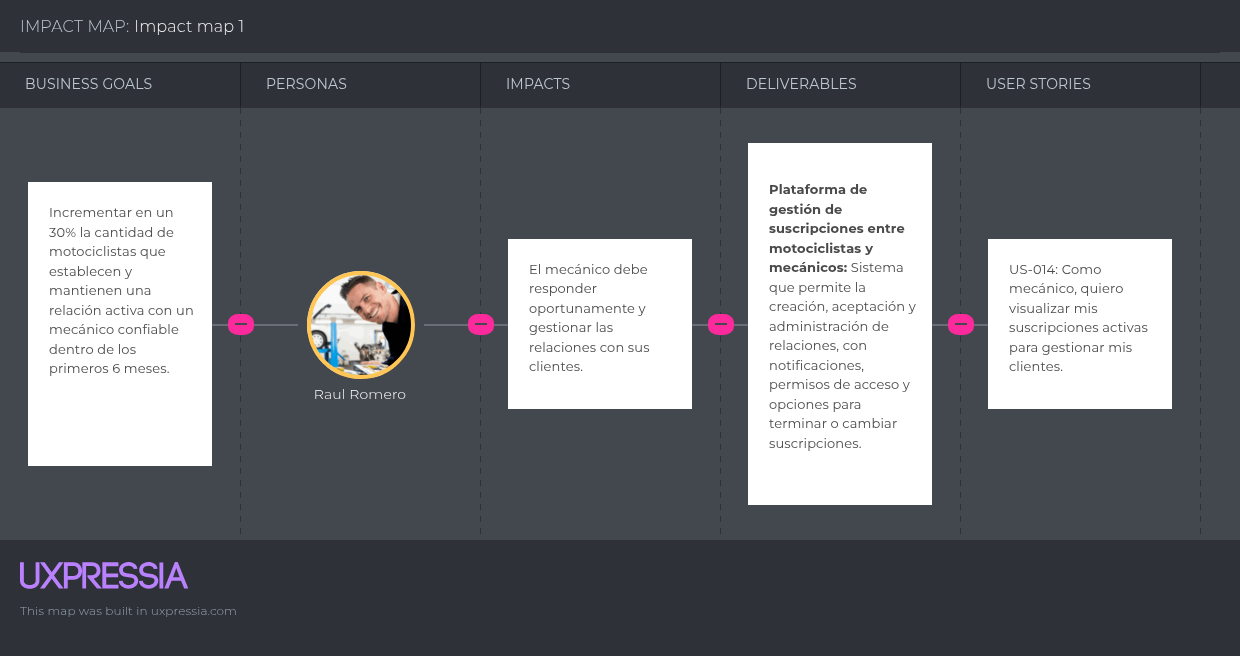
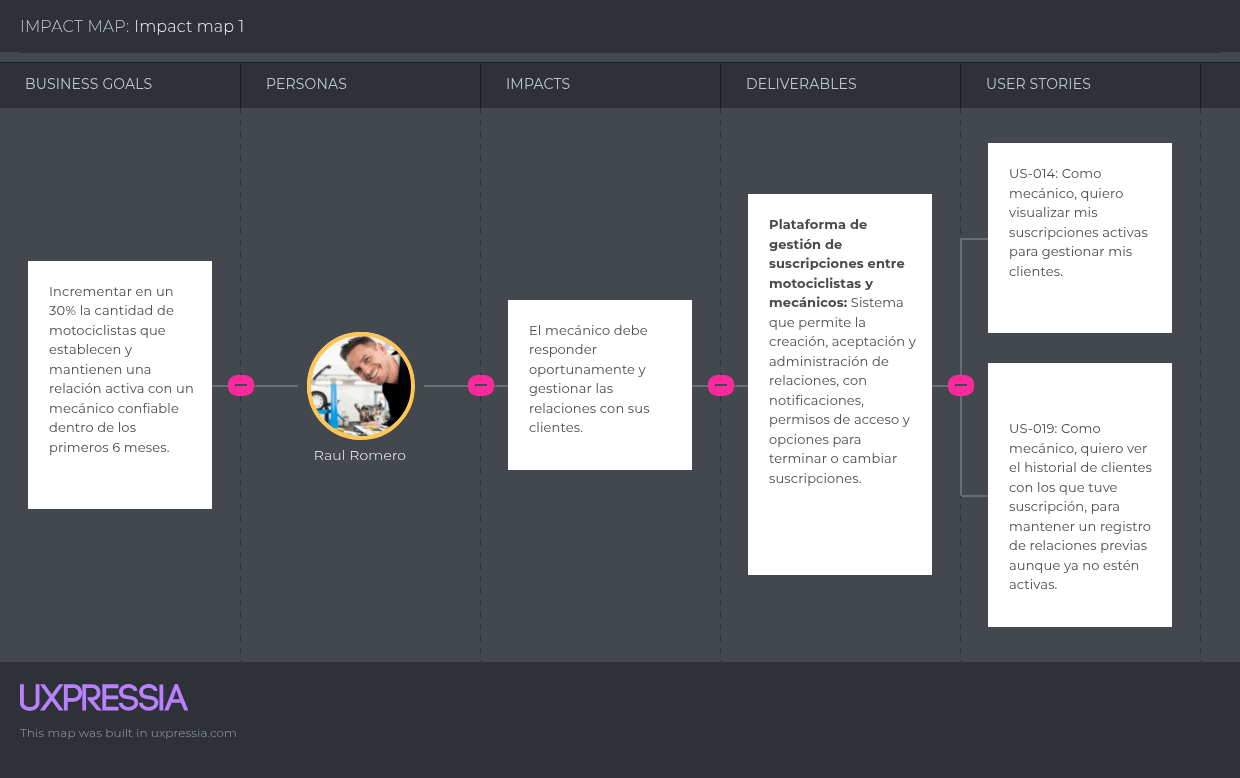
fix(Impact-Mapping): fix impact_mapping_1_2_3

diff --git a/README.md b/README.md
@@ -59,63 +59,75 @@ El enlace a github del reporte del proyecto es el siguiente: [https://github.com
 
 ## Contenido
 
-- [Student Outcome](#student-outcome)
-- [Capítulo I: Introducción](#capítulo-i-introducción)
+- [Universidad Peruana de Ciencias Aplicadas](#universidad-peruana-de-ciencias-aplicadas)
+    - [**CURSO:** Desarrollo de Soluciones IoT](#curso-desarrollo-de-soluciones-iot)
+    - [**NRC**: 3443](#nrc-3443)
+    - [**Profesor:** Ángel Augusto Velásquez Núñez](#profesor-ángel-augusto-velásquez-núñez)
+    - [**Ingeniería de software**](#ingeniería-de-software)
+  - [Informe de -](#informe-de--)
+    - [**Nombre del startup:** NRG8](#nombre-del-startup-nrg8)
+    - [**Nombre del producto:** -](#nombre-del-producto--)
+  - [**Integrantes**](#integrantes)
+  - [Registro de Versiones del Informe](#registro-de-versiones-del-informe)
+  - [Project Report Collaboration Insights](#project-report-collaboration-insights)
+  - [Contenido](#contenido)
+  - [Student Outcome](#student-outcome)
+  - [Capítulo I: Introducción](#capítulo-i-introducción)
     - [1.1 Startup Profile](#11-startup-profile)
-        - [1.1.1 Descripción de la Startup](#111-descripción-de-la-startup)
-        - [1.1.2 Perfiles de integrantes del equipo](#112-perfiles-de-integrantes-del-equipo)
+      - [1.1.1 Descripción de la Startup](#111-descripción-de-la-startup)
+      - [1.1.2 Perfiles de integrantes del equipo](#112-perfiles-de-integrantes-del-equipo)
     - [1.2 Solution Profile](#12-solution-profile)
-        - [1.2.1 Antecedentes y problemática](#121-antecedentes-y-problemática)
-        - [1.2.2 Lean UX Process](#122-lean-ux-process)
-            - [1.2.2.1 Lean UX Problem Statements](#1221-lean-ux-problem-statements)
-            - [1.2.2.2 Lean UX Assumptions](#1222-lean-ux-assumptions)
-            - [1.2.2.3 Lean UX Hypothesis Statements](#1223-lean-ux-hypothesis-statements)
-            - [1.2.2.4 Lean UX Canvas](#1224-lean-ux-canvas)
+      - [1.2.1 Antecedentes y problemática](#121-antecedentes-y-problemática)
+      - [1.2.2 Lean UX Process](#122-lean-ux-process)
+        - [1.2.2.1 Lean UX Problem Statements](#1221-lean-ux-problem-statements)
+        - [1.2.2.2 Lean UX Assumptions](#1222-lean-ux-assumptions)
+        - [1.2.2.3 Lean UX Hypothesis Statements](#1223-lean-ux-hypothesis-statements)
+        - [1.2.2.4 Lean UX Canvas](#1224-lean-ux-canvas)
     - [1.3 Segmentos objetivo](#13-segmentos-objetivo)
-- [Capítulo II: Requirements Elicitation \& Analysis](#capítulo-ii-requirements-elicitation--analysis)
+  - [Capítulo II: Requirements Elicitation \& Analysis](#capítulo-ii-requirements-elicitation--analysis)
     - [2.1 Competidores](#21-competidores)
-        - [2.1.1 Análisis competitivo](#211-análisis-competitivo)
-        - [2.1.2 Estrategias y tácticas frente a competidores](#212-estrategias-y-tácticas-frente-a-competidores)
+      - [2.1.1 Análisis competitivo](#211-análisis-competitivo)
+      - [2.1.2 Estrategias y tácticas frente a competidores](#212-estrategias-y-tácticas-frente-a-competidores)
     - [2.2 Entrevistas](#22-entrevistas)
-        - [2.2.1 Diseño de entrevistas](#221-diseño-de-entrevistas)
-        - [2.2.2 Registro de entrevistas](#222-registro-de-entrevistas)
-        - [2.2.3 Análisis de entrevistas](#223-análisis-de-entrevistas)
+      - [2.2.1 Diseño de entrevistas](#221-diseño-de-entrevistas)
+      - [2.2.2 Registro de entrevistas](#222-registro-de-entrevistas)
+      - [2.2.3 Análisis de entrevistas](#223-análisis-de-entrevistas)
     - [2.3 Needfinding](#23-needfinding)
-        - [2.3.1 User Personas](#231-user-personas)
-        - [2.3.2 User Task Matrix](#232-user-task-matrix)
-        - [2.3.3 User Journey Mapping](#233-user-journey-mapping)
-        - [2.3.4 Empathy Mapping](#234-empathy-mapping)
+      - [2.3.1 User Personas](#231-user-personas)
+      - [2.3.2 User Task Matrix](#232-user-task-matrix)
+      - [2.3.3 User Journey Mapping](#233-user-journey-mapping)
+      - [2.3.4 Empathy Mapping](#234-empathy-mapping)
     - [2.4 Big Picture EventStorming](#24-big-picture-eventstorming)
     - [2.5 Ubiquitous Language](#25-ubiquitous-language)
-- [Capítulo III: Requirements Specification](#capítulo-iii-requirements-specification)
+  - [Capítulo III: Requirements Specification](#capítulo-iii-requirements-specification)
     - [3.1 User Stories](#31-user-stories)
     - [3.2 Impact Mapping](#32-impact-mapping)
     - [3.3 Product Backlog](#33-product-backlog)
-- [Capítulo IV: Solution Software Design](#capítulo-iv-solution-software-design)
+  - [Capítulo IV: Solution Software Design](#capítulo-iv-solution-software-design)
     - [4.1 Strategic-Level Attribute-Driven Design](#41-strategic-level-attribute-driven-design)
-        - [4.1.1 Design-Level EventStorming](#411-design-level-eventstorming)
-            - [4.1.1.1 Candidate Context Discovery](#4111-candidate-context-discovery)
-            - [4.1.1.2 Domain Message Flows Modeling](#4112-domain-message-flows-modeling)
-            - [4.1.1.3 Bounded Context Canvases](#4113-bounded-context-canvases)
-        - [4.1.2 Context Mapping](#412-context-mapping)
-        - [4.1.3 Software Architecture](#413-software-architecture)
-            - [4.1.3.1 Software Architecture System Landscape Diagram](#4131-software-architecture-system-landscape-diagram)
-            - [4.1.3.2 Software Architecture Context Level Diagrams](#4132-software-architecture-context-level-diagrams)
-            - [4.1.3.3 Software Architecture Container Level Diagrams](#4133-software-architecture-container-level-diagrams)
-            - [4.1.3.4 Software Architecture Deployment Diagrams](#4134-software-architecture-deployment-diagrams)
+      - [4.1.1 Design-Level EventStorming](#411-design-level-eventstorming)
+        - [4.1.1.1 Candidate Context Discovery](#4111-candidate-context-discovery)
+        - [4.1.1.2 Domain Message Flows Modeling](#4112-domain-message-flows-modeling)
+        - [4.1.1.3 Bounded Context Canvases](#4113-bounded-context-canvases)
+      - [4.1.2 Context Mapping](#412-context-mapping)
+      - [4.1.3 Software Architecture](#413-software-architecture)
+        - [4.1.3.1 Software Architecture System Landscape Diagram](#4131-software-architecture-system-landscape-diagram)
+        - [4.1.3.2 Software Architecture Context Level Diagrams](#4132-software-architecture-context-level-diagrams)
+        - [4.1.3.3 Software Architecture Container Level Diagrams](#4133-software-architecture-container-level-diagrams)
+        - [4.1.3.4 Software Architecture Deployment Diagrams](#4134-software-architecture-deployment-diagrams)
     - [4.2 Tactical-Level Domain-Driven Design](#42-tactical-level-domain-driven-design)
-        - [4.2.1 Bounded Context: unnamed](#421-bounded-context-unnamed)
-            - [4.2.1.1 Domain Layer](#4211-domain-layer)
-            - [4.2.1.2 Interface Layer](#4212-interface-layer)
-            - [4.2.1.3 Application Layer](#4213-application-layer)
-            - [4.2.1.4 Infrastructure Layer](#4214-infrastructure-layer)
-            - [4.2.1.5 Bounded Context Software Architecture Component Level Diagrams](#4215-bounded-context-software-architecture-component-level-diagrams)
-            - [4.2.1.6 Bounded Context Software Architecture Code Level Diagrams](#4216-bounded-context-software-architecture-code-level-diagrams)
-                - [4.2.1.6.1 Bounded Context Domain Layer Class Diagrams](#42161-bounded-context-domain-layer-class-diagrams)
-                - [4.2.1.6.2 Bounded Context Database Design Diagram](#42162-bounded-context-database-design-diagram)
-- [Conclusiones](#conclusiones)
-- [Bibliografía](#bibliografía)
-- [Anexos](#anexos)
+      - [4.2.1 Bounded Context: unnamed](#421-bounded-context-unnamed)
+        - [4.2.1.1 Domain Layer](#4211-domain-layer)
+        - [4.2.1.2 Interface Layer](#4212-interface-layer)
+        - [4.2.1.3 Application Layer](#4213-application-layer)
+        - [4.2.1.4 Infrastructure Layer](#4214-infrastructure-layer)
+        - [4.2.1.5 Bounded Context Software Architecture Component Level Diagrams](#4215-bounded-context-software-architecture-component-level-diagrams)
+        - [4.2.1.6 Bounded Context Software Architecture Code Level Diagrams](#4216-bounded-context-software-architecture-code-level-diagrams)
+          - [4.2.1.6.1 Bounded Context Domain Layer Class Diagrams](#42161-bounded-context-domain-layer-class-diagrams)
+          - [4.2.1.6.2 Bounded Context Database Design Diagram](#42162-bounded-context-database-design-diagram)
+  - [Conclusiones](#conclusiones)
+  - [Bibliografía](#bibliografía)
+  - [Anexos](#anexos)
 
 ## Student Outcome
 
@@ -258,10 +270,10 @@ User Stories:
 
 ### 3.2 Impact Mapping
 
-<img src="./images/chapter-3/impact_mapping_1.png" alt="impact_mapping_1" width="400"/>
-<img src="./images/chapter-3/impact_mapping_2.png" alt="impact_mapping_2" width="400"/>
-<img src="./images/chapter-3/impact_mapping_3.png" alt="impact_mapping_3" width="400"/>
-<img src="./images/chapter-3/impact_mapping_4.png" alt="impact_mapping_4" width="400"/>
+<img src="./images/chapter-3/impact_mapping_1.png" alt="impact_mapping_1" width="800"/>
+<img src="./images/chapter-3/impact_mapping_2.png" alt="impact_mapping_2" width="800"/>
+<img src="./images/chapter-3/impact_mapping_3.png" alt="impact_mapping_3" width="800"/>
+<img src="./images/chapter-3/impact_mapping_4.png" alt="impact_mapping_4" width="800"/>
 
 ### 3.3 Product Backlog
 
